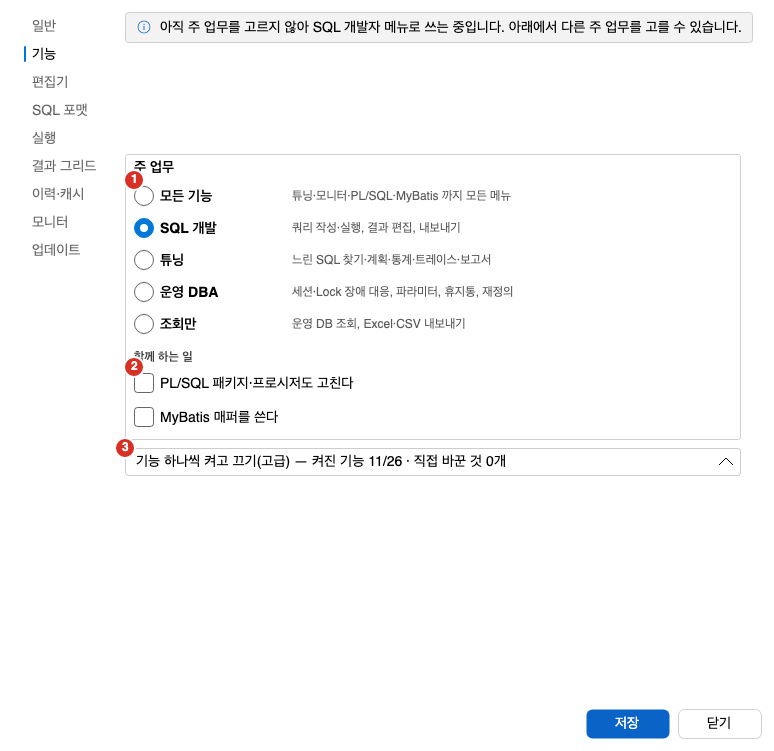
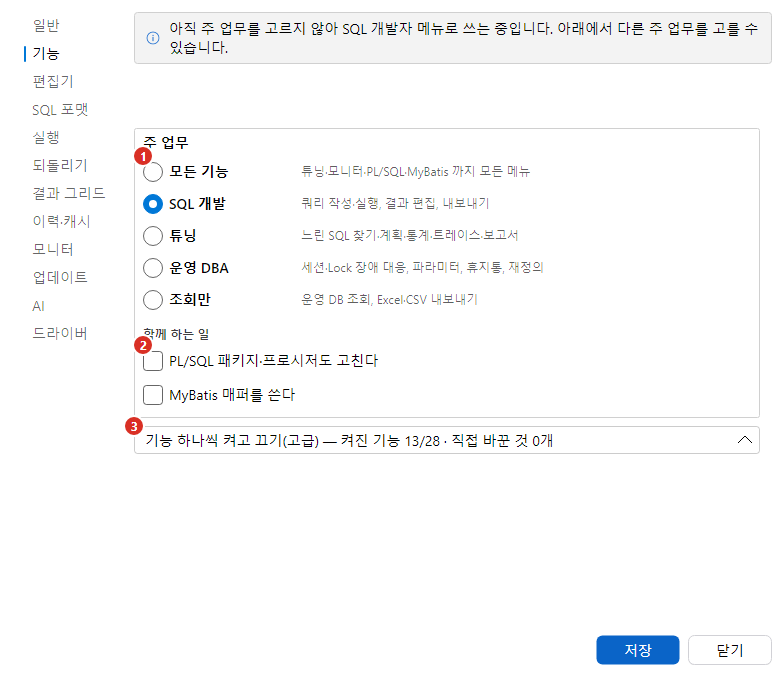
docs(ai): manual for AI settings in one place with new AI tab captures
Claude-Session: https://claude.ai/code/session_01M9hnLTmsLvuBj8uXGbJb5L

diff --git a/tests/Oranda.App.Tests/Manual/ManualAiScreens.cs b/tests/Oranda.App.Tests/Manual/ManualAiScreens.cs
@@ -78,6 +78,103 @@ public sealed class ManualAiScreens
         window.Close();
     });
 
+    // ---- 설정 「AI」 탭(ai-settings-one-place 2026-11-24) ----
+
+    private static readonly ConnectionProfile[] ExampleConnections =
+    [
+        new("dev-erp", "scott", "db.example.com:1521/DEV", Id: Guid.Parse("11111111-1111-1111-1111-111111111111")),
+        new("tst-erp", "scott", "db.example.com:1521/TST", Id: Guid.Parse("22222222-2222-2222-2222-222222222222"), Environment: ConnectionEnvironment.Test),
+        new("prd-erp", "scott", "db.example.com:1521/PRD", Id: Guid.Parse("33333333-3333-3333-3333-333333333333"), Environment: ConnectionEnvironment.Production, AiAccess: AiAccessLevel.Off),
+    ];
+
+    private static AiSettingsHubPage Hub(AiSettings ai, bool aiOn = true)
+    {
+        var settings = new SettingsService(new MemorySettingsStore());
+        settings.UpdateAsync(s => s with { Ai = ai }).GetAwaiter().GetResult();
+        var services = new AiSettingsHubServices(
+            OpenWizard: (_, _, _) => Task.CompletedTask,
+            Access: new Oranda.App.Features.AiSetup.Access.AccessStepServices(_ => Task.FromResult<IReadOnlyList<ConnectionProfile>>(ExampleConnections), (p, _) => Task.FromResult(p)),
+            OpenAgentConnect: _ => Task.CompletedTask,
+            OpenSkillInstall: _ => Task.CompletedTask,
+            Test: () => new Oranda.App.Features.AiSetup.Contract.AiSetupContext(settings));
+        return new AiSettingsHubPage(settings, new Oranda.App.Shell.ShellText(language: "ko"),
+            a => new AiModelSettingsPage(a, new AiProfileServices(settings, CustomCliInstalled: _ => false), installCheckDelay: TimeSpan.Zero), services, () => aiOn);
+    }
+
+    private static async Task<(AiSettingsHubView View, Window Window)> ShowHubAsync(AiSettingsHubPage hub, double height)
+    {
+        var view = new AiSettingsHubView { DataContext = hub, Margin = new Thickness(24) };
+        var window = Show(view, 700, height);
+        await HeadlessHost.WaitUntil(() => hub.Access!.Rows.Count == ExampleConnections.Length);
+        Pump();
+        window.UpdateLayout();
+        Pump();
+        return (view, window);
+    }
+
+    [Fact]
+    public Task Ai_settings_tab() => HeadlessHost.Run(async () =>
+    {
+        if (!ManualCapture.Enabled)
+        {
+            return;
+        }
+
+        var hub = Hub(new AiSettings
+        {
+            Driver = AiDriverKind.ClaudeCode,
+            Model = "sonnet",
+            Setup = new AiSetupSettings { LastTest = new AiConnectionTestRecord(new DateTimeOffset(2026, 11, 24, 9, 30, 0, TimeZoneInfo.Local.GetUtcOffset(new DateTime(2026, 11, 24))), true, "Claude Code", 2300) },
+        });
+        var (view, window) = await ShowHubAsync(hub, 740);
+        var overlay = ManualCapture.AddOverlay(window);
+        Pump();
+
+        ManualCapture.SaveOverlaid(window, overlay, "ai-settings-tab",
+        [
+            new(view.StatusCard, 1, 560, 10),
+            new(view.TestButton, 2, -10),
+            new(view.ReconnectButton, 3, -10),
+            new(Named<Border>(view, "AiHubAccess"), 4, 560, 10),
+            new(Named<Border>(view, "AiHubAgent"), 5, 560, 10),
+            new(view.Advanced, 6, 560, 6),
+        ]);
+        window.Close();
+    });
+
+    [Fact]
+    public Task Ai_settings_not_connected_and_blocked() => HeadlessHost.Run(async () =>
+    {
+        if (!ManualCapture.Enabled)
+        {
+            return;
+        }
+
+        var none = Hub(new AiSettings { Driver = AiDriverKind.None });
+        var (view, window) = await ShowHubAsync(none, 420);
+        foreach (var other in ((StackPanel)view.Content!).Children.Where(c => !ReferenceEquals(c, view.StatusCard)))
+        {
+            other.IsVisible = false; // 이 그림은 카드만 보인다
+        }
+
+        window.Height = 222;
+        Pump();
+        ManualCapture.Save(window, "ai-settings-start", [new(view.StatusCard, 1, 560, 10), new(view.StartWizardButton, 2, -10)]);
+        window.Close();
+
+        var off = Hub(new AiSettings { Driver = AiDriverKind.ClaudeCode }, aiOn: false);
+        (view, window) = await ShowHubAsync(off, 420);
+        foreach (var other in ((StackPanel)view.Content!).Children.Where(c => !ReferenceEquals(c, view.StatusCard)))
+        {
+            other.IsVisible = false;
+        }
+
+        window.Height = 192;
+        Pump();
+        ManualCapture.Save(window, "ai-settings-blocked", [new(view.StatusCard, 1, 560, 10), new(view.BlockedButton, 2, -10)]);
+        window.Close();
+    });
+
     [Fact]
     public Task Model_dropdown() => HeadlessHost.Run(() =>
     {

diff --git a/src/Oranda.Core/Ai/Manual/OrandaManualIndex.cs b/src/Oranda.Core/Ai/Manual/OrandaManualIndex.cs
@@ -132,7 +132,7 @@ public static partial class OrandaManual
         },
         new("AI 모델 설정", "AI 튜닝과 대화에 쓸 주 모델과 가벼운 일 모델을 고르고, LLM 프로필, 시스템 CLI, 기타 CLI를 설정하는 방법을 안내합니다.", "https://jongik-sv.github.io/oranda/ai/models/", "ai")
         {
-            Headings = ["설정 창의 AI 모델 탭", "주 모델과 가벼운 일 모델", "LLM 프로필", "시스템 CLI", "기타 CLI", "조인 문법", "운영 벤치마크 제한 시간", "문제가 생길 때"],
+            Headings = ["설정 창의 AI 탭", "고급", "주 모델과 가벼운 일 모델", "LLM 프로필", "시스템 CLI", "기타 CLI", "조인 문법", "운영 벤치마크 제한 시간", "문제가 생길 때"],
         },
         new("외부 에이전트", "Claude Code, Codex, Antigravity, opencode 같은 LLM CLI가 실행 중인 Oranda를 orandactl 명령과 스킬로 다루는 방법과 상태 표시줄 띠를 안내합니다.", "https://jongik-sv.github.io/oranda/ai/external-agents/", "ai")
         {

diff --git a/site/src/content/docs/ai/setup.md b/site/src/content/docs/ai/setup.md
@@ -9,15 +9,21 @@ AI 연결 도우미는 AI 를 처음 연결하는 사람을 위한 따라 하기
 
 - 왼쪽에 단계 목록이 있고, 아래에 「이전」·「다음」 단추가 있습니다. 한 단계가 끝나야 「다음」이 켜집니다.
 - 언제든 「닫기」로 닫을 수 있습니다. 다음에 열면 닫은 곳부터 이어 합니다.
-- 다 끝난 뒤에 모델을 바꾸거나 더 자세히 설정하려면 [AI 모델 설정](../models/)을 보세요.
+- 도우미는 언제나 설정 창 「AI」 탭 위에 열립니다. 닫거나 끝내면 그 탭으로 돌아와 방금 고른 값과 연결 시험 결과가 보입니다.
+- 다 끝난 뒤에 모델을 바꾸거나 더 자세히 설정하려면 같은 탭의 「고급」을 펼치세요. [AI 모델 설정](../models/)을 보세요.
 
 ## 여는 곳
 
-도우미는 세 곳에서 엽니다.
+AI 에 관한 설정은 모두 설정 창의 「AI」 탭에서 시작합니다. 도우미는 세 곳에서 엽니다.
 
-1. 메뉴 **도구 > AI 연결 도우미…**: 언제든 엽니다.
-2. 처음 실행할 때 한 번 묻기: AI 가 아직 연결되지 않았으면 Oranda 를 켠 뒤 「AI 를 연결할까요?」 를 한 번 묻습니다. **AI 연결**을 누르면 도우미가 열리고, **나중에**를 누르면 다시 묻지 않습니다. 나중에는 도구 메뉴에서 엽니다.
-3. AI 명령이 실패했을 때: AI 튜닝이나 AI 대화가 「AI 가 아직 연결되지 않았습니다」 로 멈추면 그 자리에 **AI 연결 도우미 열기** 단추가 나옵니다.
+1. 메뉴 **도구 > AI 설정…**: 설정 창이 「AI」 탭으로 열립니다. 아직 연결하지 않았으면 **연결 도우미 시작**, 이미 연결했으면 **다시 연결(도우미)**을 누릅니다.
+2. 처음 실행할 때 한 번 묻기: AI 가 아직 연결되지 않았으면 Oranda 를 켠 뒤 「AI 를 연결할까요?」 를 한 번 묻습니다. **AI 연결**을 누르면 설정 창 「AI」 탭이 열리고 그 위에 도우미가 바로 뜹니다. **나중에**를 누르면 다시 묻지 않습니다. 나중에는 **도구 > AI 설정…**에서 엽니다.
+3. AI 명령이 실패했을 때: AI 튜닝이나 AI 대화가 「AI 가 아직 연결되지 않았습니다」 로 멈추면 그 자리에 **AI 연결 도우미 열기** 단추가 나옵니다. 누르면 2번과 같이 열립니다.
+
+![설정 「AI」 탭에서 도우미를 시작하는 곳](../../../assets/screens/ai-settings-start.png)
+
+1. 연결 상태 카드: 지금 연결 상태를 보여 줍니다.
+2. 연결 도우미 시작: 도우미를 엽니다.
 
 ## 방법 고르기
 

diff --git a/site/src/content/docs/ai/external-agents.md b/site/src/content/docs/ai/external-agents.md
@@ -7,7 +7,7 @@ sidebar:
 
 Oranda 밖에서 쓰는 LLM CLI(Claude Code, Codex, Antigravity의 `agy`, opencode)가 실행 중인 Oranda를 다룰 수 있습니다. CLI는 `orandactl` 명령으로 편집기 탭을 읽고, 바꿀 글을 제안하고, 새 탭에 SQL을 넣고, 접속의 객체를 찾고, SELECT를 실행합니다. 이 쪽에서는 연결을 켜는 창, CLI가 읽는 `oranda` 스킬, 탭 실행과 파일 저장, 자동 튜닝, 메뉴 명령, 매뉴얼 링크, 운영 접속에서 쓸 때의 주의, 상태 표시줄의 외부 에이전트 띠를 설명합니다.
 
-- AI 튜닝 기능이 켜져 있어야 합니다. 꺼져 있으면 메뉴에 「외부 에이전트 연결…」이 보이지 않습니다. 기능은 **설정 > 기능**에서 켜고 끕니다. [설정](../../settings/options/#기능)을 보세요.
+- AI 튜닝 기능이 켜져 있어야 합니다. 꺼져 있으면 설정 「AI」 탭의 「외부 에이전트」 묶음에 「AI 기능이 꺼져 있어 연결할 수 없습니다.」가 나오고 **연결…**이 눌리지 않습니다. 탭 맨 위 카드의 **기능 켜기**로 켭니다. [AI 모델 설정](../models/#ai-기능이-꺼져-있거나-조회만-쓸-때)을 보세요.
 - 접속의 AI 허용 수준은 [AI 기능 개요](../overview/)를 보세요. 외부 에이전트도 같은 수준을 따릅니다.
 
 ## 외부 에이전트가 할 수 있는 일
@@ -30,7 +30,7 @@ Oranda 밖에서 쓰는 LLM CLI(Claude Code, Codex, Antigravity의 `agy`, openco
 
 ## 외부 에이전트 연결 켜기
 
-**도구 > 외부 에이전트 연결…**을 엽니다. 창마다 따로 켭니다. 켠 창만 CLI가 찾을 수 있습니다.
+**도구 > AI 설정…**을 누르고 「AI」 탭의 「외부 에이전트」 묶음에서 **연결…**을 누릅니다. 같은 묶음에 지금 연결 상태와 **스킬 설치…** 단추도 있습니다. 창마다 따로 켭니다. 켠 창만 CLI가 찾을 수 있습니다.
 
 [AI 연결 도우미](../setup/#해-보기)의 마지막 단계 「해 보기」에서 「검은 창의 Claude Code 에서도 Oranda 시키기(고급)」를 켜고 끝내도 이 창이 열립니다.
 

diff --git a/site/src/content/docs/ai/chat.md b/site/src/content/docs/ai/chat.md
@@ -242,7 +242,7 @@ AI 튜닝이 끝나면 결과를 파일로 저장합니다.
 
 | 증상 | 원인 | 해결 |
 |---|---|---|
-| 입력칸 위에 AI를 쓸 수 없는 이유가 나옵니다 | 「선택 안 함」을 골랐거나 선택한 모델을 쓸 수 없습니다. | **설정 > AI 모델**을 확인하세요. [AI 모델 설정](../models/)을 보세요. |
+| 입력칸 위에 AI를 쓸 수 없는 이유가 나옵니다 | 「선택 안 함」을 골랐거나 선택한 모델을 쓸 수 없습니다. | **설정 > AI**를 확인하세요. [AI 모델 설정](../models/)을 보세요. |
 | 이미지 첨부 단추가 꺼져 있습니다 | 고른 모델이 이미지를 지원하지 않습니다. | 이미지를 지원하는 프로필이나 Claude Code, Codex CLI를 고르세요. |
 | 「이미지는 한 번에 5장까지 붙일 수 있습니다」가 나옵니다 | 5장을 넘겼습니다. | 이미지를 빼거나 나누어 보내세요. |
 | 「이어 말하는 중이라 이미지를 붙이지 못했습니다」가 나옵니다 | AI가 일하는 중입니다. | 끝난 뒤 다시 붙이세요. |

diff --git a/site/src/content/docs/schema/table-editor.md b/site/src/content/docs/schema/table-editor.md
@@ -205,7 +205,7 @@ AI 추천은 편집 중인 일반(파티션이 아닌) 테이블의 「파티션
 
 #### 보내기 전 확인 창
 
-창 맨 위에 「받는 곳」이 나옵니다(예: Claude Code). 바꾸려면 「설정 › AI 모델」로 갑니다. 「목적」은 「조회 성능 + 오래된 데이터 정리」, 「조회 성능」, 「오래된 데이터 정리」 중에서 고릅니다.
+창 맨 위에 「받는 곳」이 나옵니다(예: Claude Code). 바꾸려면 「설정 › AI」로 갑니다. 「목적」은 「조회 성능 + 오래된 데이터 정리」, 「조회 성능」, 「오래된 데이터 정리」 중에서 고릅니다.
 
 「보낼 정보」에서 체크한 것만 모아 보냅니다.
 

diff --git a/site/src/content/docs/settings/options.md b/site/src/content/docs/settings/options.md
@@ -34,7 +34,7 @@ sidebar:
 | 이력·캐시 | 실행 이력과 메타데이터 캐시 보관 |
 | 모니터 | 모니터 새로 고침 간격 |
 | 업데이트 | 자동 업데이트 |
-| AI 모델 | AI 모델 연결. AI 튜닝 기능이 켜져 있을 때만 보입니다. |
+| AI | AI 연결 상태·연결 시험·도우미, AI 를 쓸 접속, 외부 에이전트, 「고급」(모델·프로필·기타 CLI). AI 기능이 꺼져 있어도 보이고 까닭과 **기능 켜기**가 나옵니다. **도구 > AI 설정…**이 이 탭으로 엽니다. [AI 모델 설정](../../ai/models/)을 보세요. |
 
 ![설정 창의 일반 탭](../../../assets/screens/settings-general.png)
 
